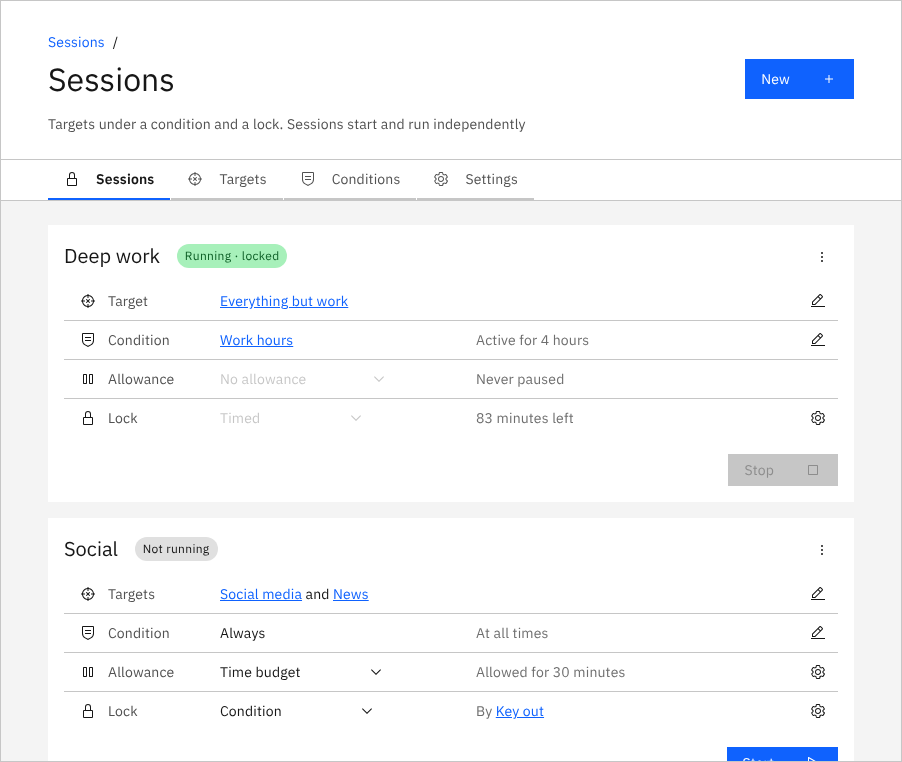
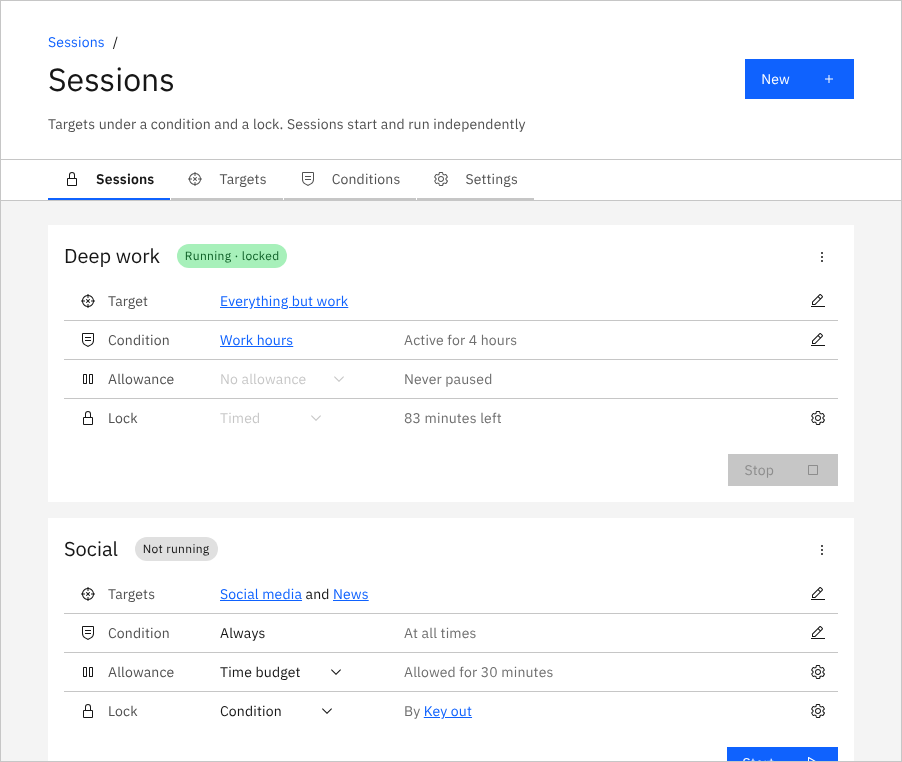
Session tiles: the dropdown column as wide as its widest choice, with as much room after it as after the labels
Claude-Session: https://claude.ai/code/session_01SBfnkg8w91Fj4Y9v7AMuP3

diff --git a/src/app.css b/src/app.css
@@ -87,7 +87,7 @@ main { padding-block: var(--cds-spacing-06); }
 /* A session's Start / Stop (and Keep locked), on the right under its rows. */
 .session-tile .actions { display: flex; flex-wrap: wrap; justify-content: flex-end; gap: var(--cds-spacing-04); margin-block-start: var(--cds-spacing-03); }
 /* The dropdown of the other way to unlock, in Settings: as wide as the lock dropdown on a tile. */
-.way-method { inline-size: 12rem; }
+.way-method { inline-size: 11rem; }
 /* A dropdown's list shows all its items where there is room (Carbon stops it at five and a half and scrolls),
    through the list's own part; where there is not, it still scrolls. */
 cds-dropdown::part(menu-body) { max-block-size: min(21rem, 70vh); }
@@ -174,7 +174,8 @@ cds-link[inline] { display: inline-flex; }
 /* Its parts sit at the top of the row, so a dropdown stays on the first line when the status beside it wraps. */
 .tile-rows .row-text { display: grid; grid-template-columns: minmax(0, 1fr); justify-items: start; align-items: start; row-gap: var(--cds-spacing-03); overflow-wrap: anywhere; }
 /* A dropdown sits in the line of the text, without making the row taller than the text would (20px: its 32px less 6px above and below). */
-.tile-rows .row-text cds-dropdown { margin-block: -0.375rem; inline-size: 16rem; max-inline-size: 100%; }
+/* As wide as its widest choice ("Pomodoro cycle", 11rem), so the column it makes is as wide as what is in it. */
+.tile-rows .row-text cds-dropdown { margin-block: -0.375rem; inline-size: 11rem; max-inline-size: 100%; }
 /* Text in the column starts where the letters in an inline dropdown do (its left padding, 1rem), so they line up from row to row. */
 .tile-rows .row-value { padding-inline-start: var(--cds-spacing-05); }
 .tile-rows .row-value:empty { display: none; }
@@ -185,7 +186,8 @@ cds-link[inline] { display: inline-flex; }
 .tile-rows .row-now { color: var(--cds-text-helper); padding-inline-start: var(--cds-spacing-05); }
 .tile-rows .row-now:empty { display: none; }
 @media (min-width: 48rem) {
-  .tile-rows .row-text:has(> .row-now:not(:empty)) { grid-template-columns: 16rem minmax(0, 1fr); column-gap: var(--cds-spacing-05); }
+  /* After the widest dropdown's chevron about as much room as after the widest label (some 45px). */
+  .tile-rows .row-text:has(> .row-now:not(:empty)) { grid-template-columns: 11rem minmax(0, 1fr); column-gap: var(--cds-spacing-06); }
   .tile-rows .row-text > .row-now { grid-row: 1; grid-column: 2; line-height: 1.25rem; padding-inline-start: 0; }
 }
 /* The first line of a row is one text line (1.25rem), so a row is as high as its button (2.5rem): Carbon pads the content by what a line of that height leaves. */
